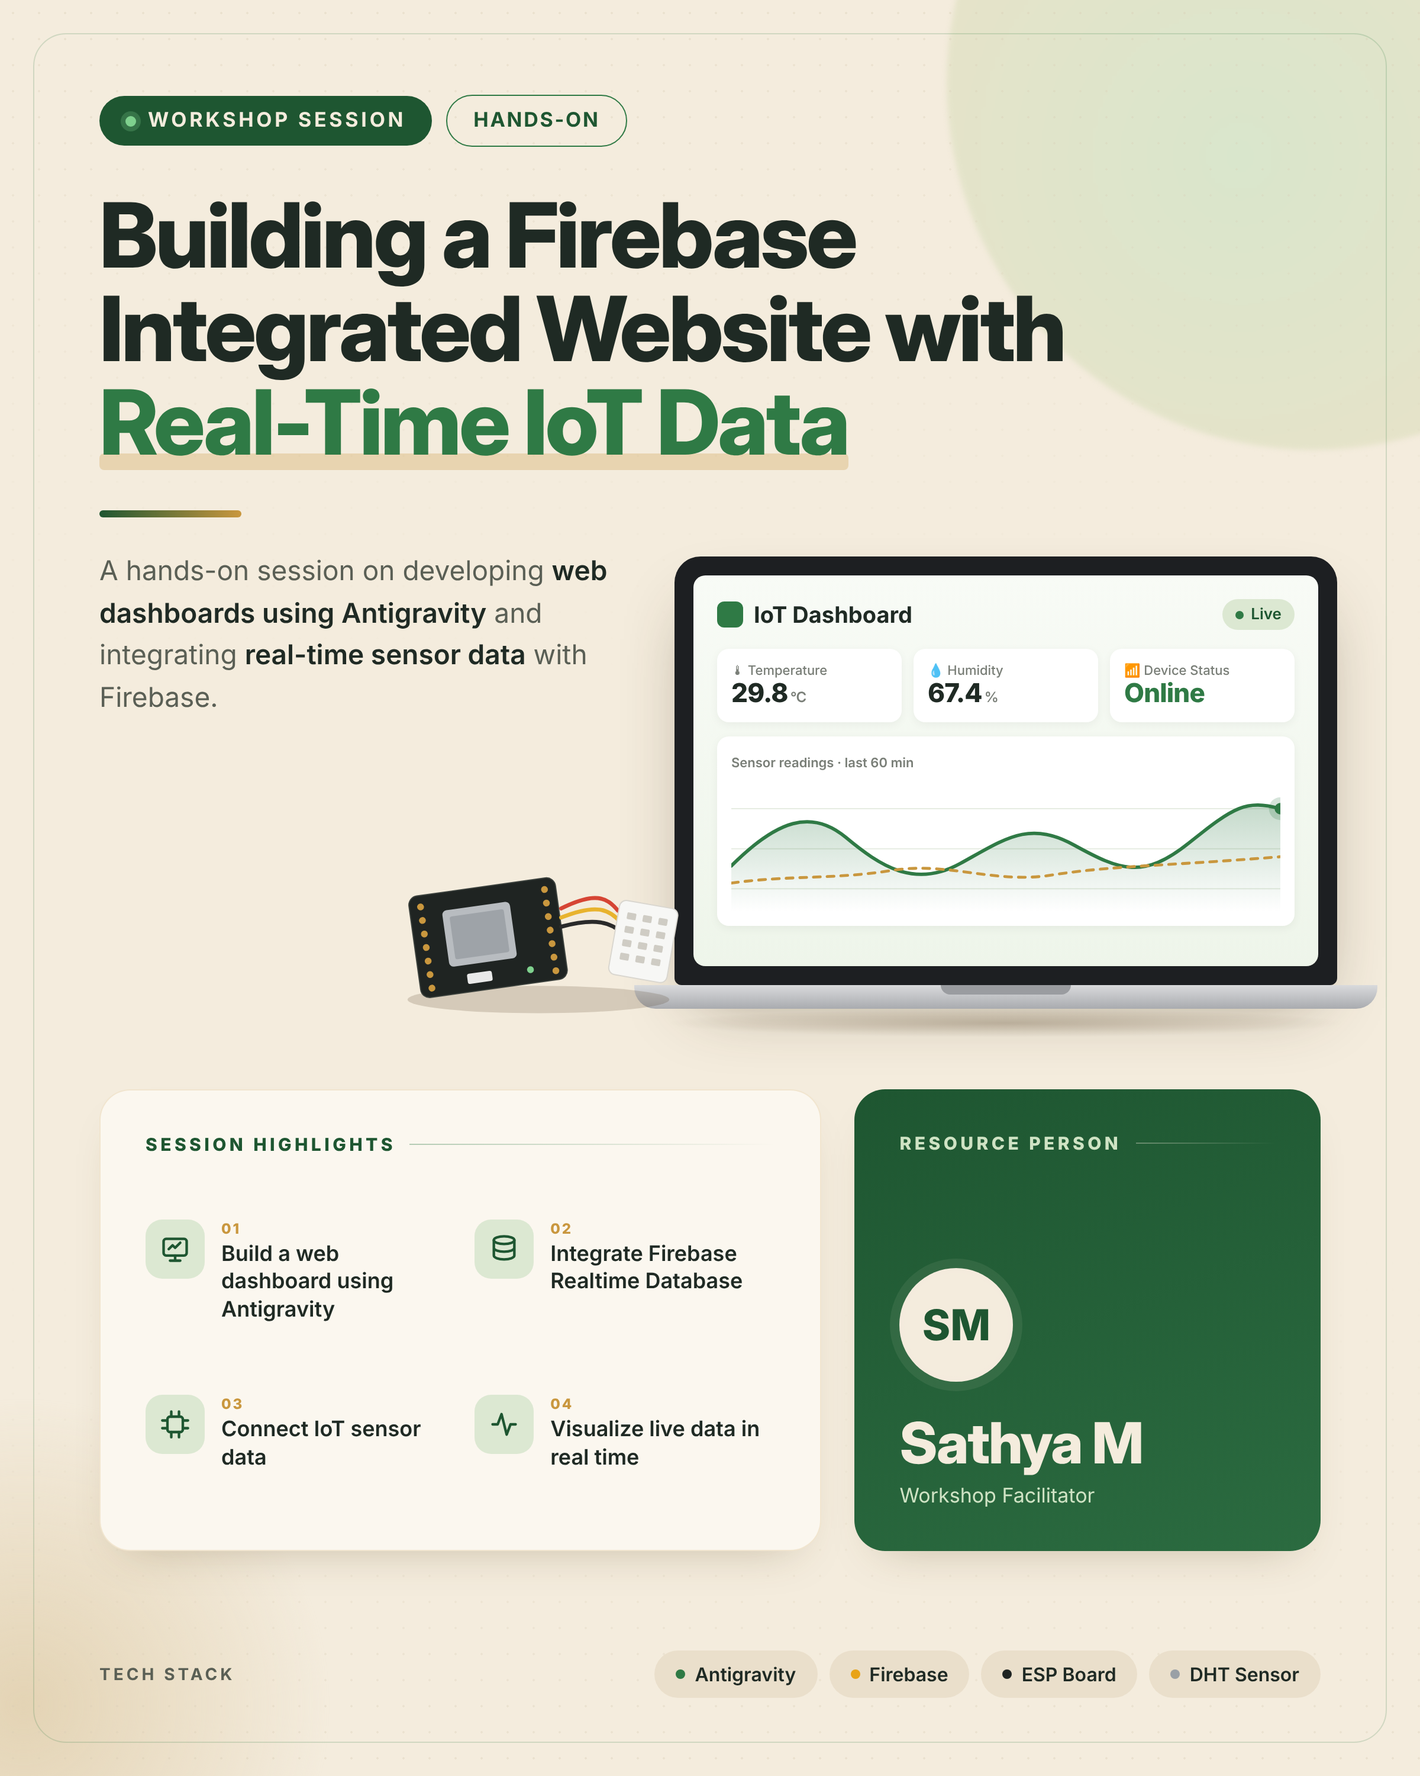
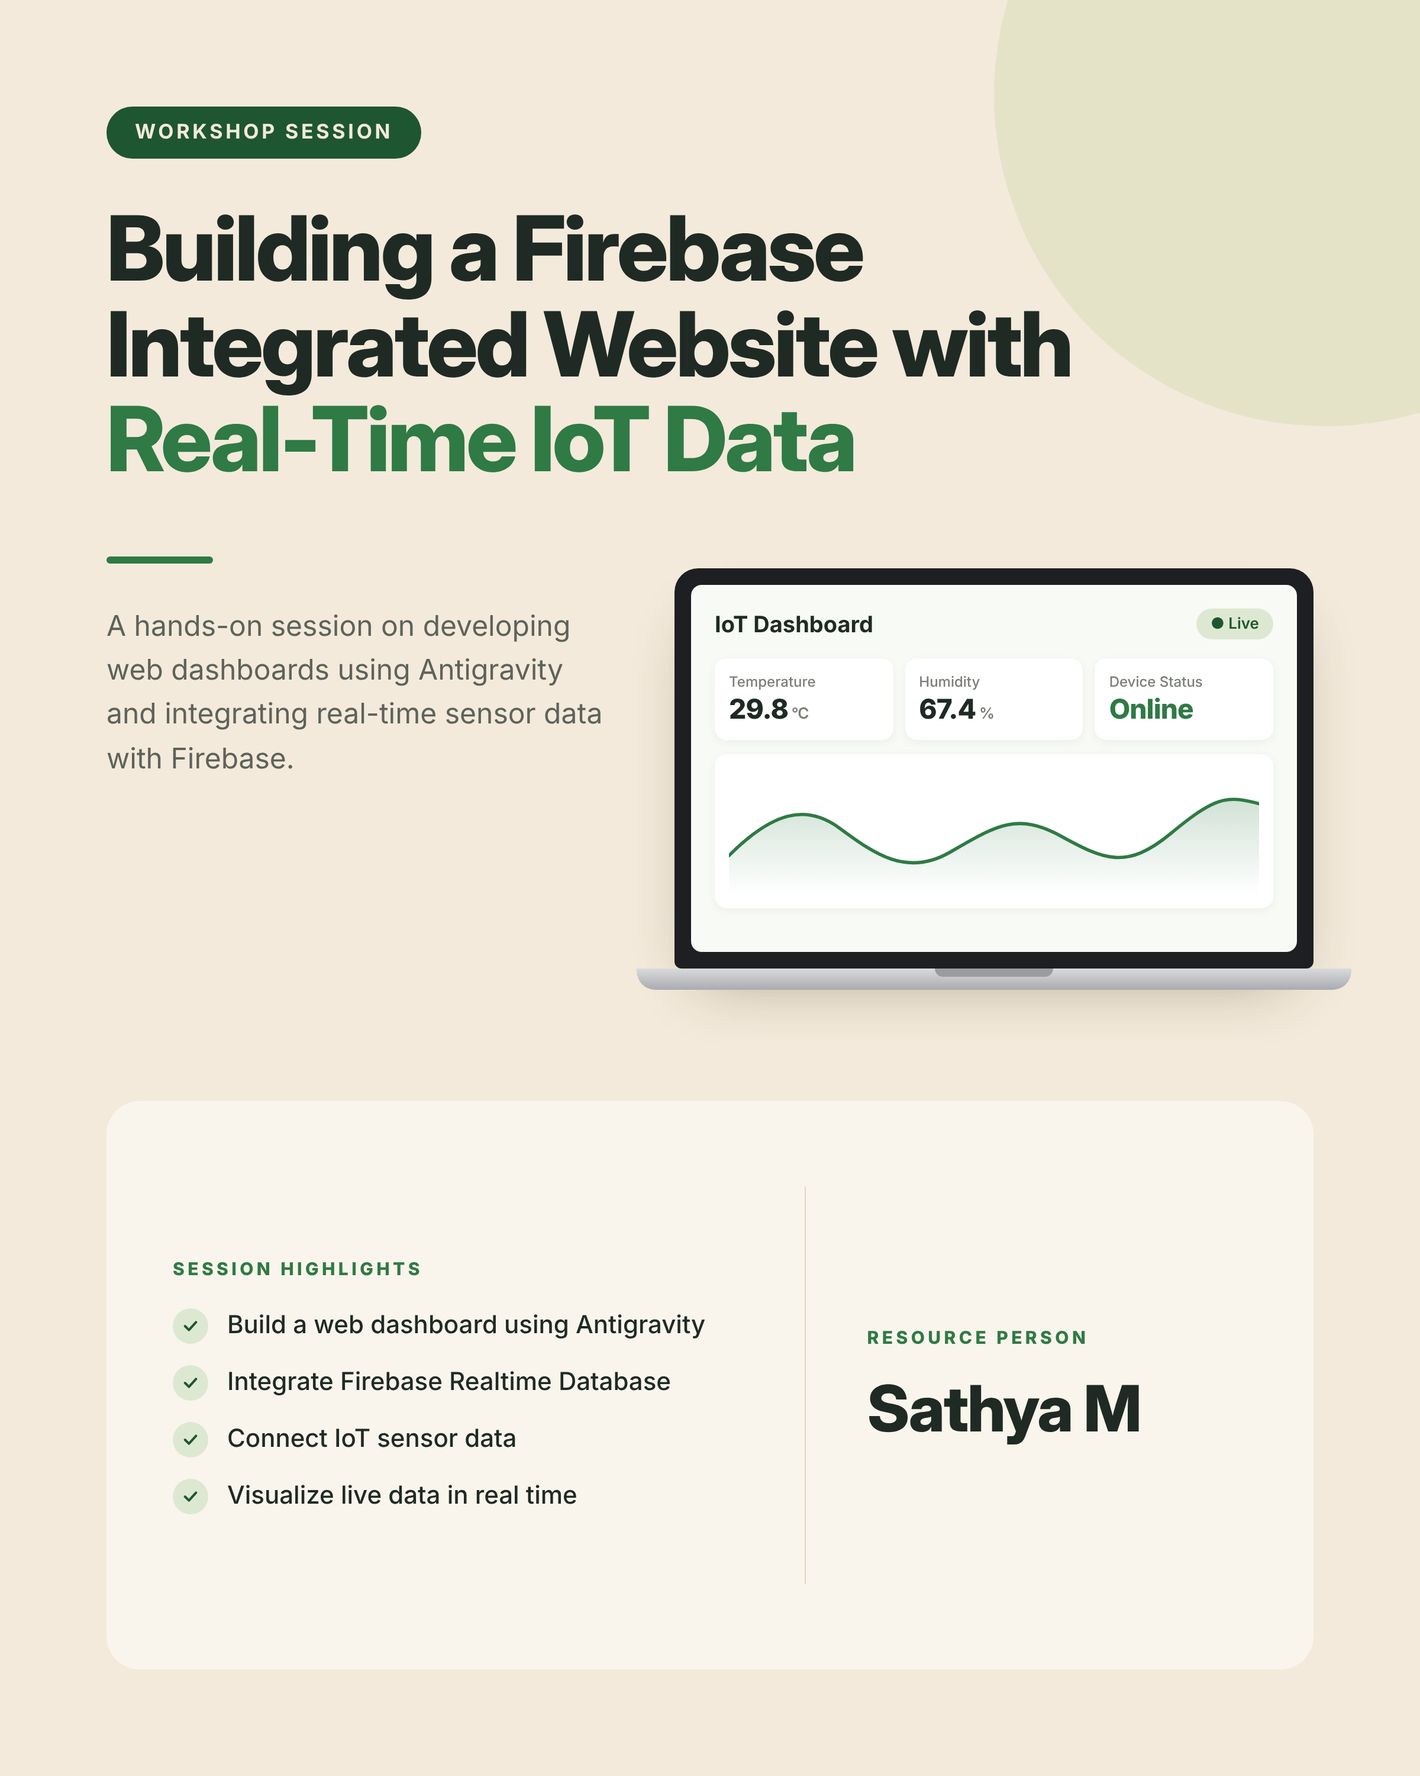
Simplify workshop poster design
Claude-Session: https://claude.ai/code/session_01UMwc75R27ws7W1o423wc6f

diff --git a/poster/poster.html b/poster/poster.html
@@ -4,202 +4,91 @@
 <meta charset="utf-8">
 <title>Workshop Poster</title>
 <style>
-  :root{
-    --beige:#F4ECDD; --beige-2:#EADFCB; --cream:#FBF7EF;
-    --ink:#1F2A24; --muted:#5A5F55;
-    --green:#2F7A45; --green-d:#1E5631; --green-l:#DCE8D2;
-    --gold:#C9973E;
-  }
+  :root{--beige:#F3EADB;--cream:#FAF5EC;--ink:#1F2A24;--muted:#5E625A;--green:#2F7A45;--green-d:#1E5631;--green-l:#DDE8D3}
   *{box-sizing:border-box;margin:0;padding:0}
   html,body{width:1200px;height:1500px;background:var(--beige)}
   body{font-family:"Inter",sans-serif;color:var(--ink);position:relative;overflow:hidden}
   .disp{font-family:"Inter Display","Inter",sans-serif}
+  .circle{position:absolute;width:560px;height:560px;border-radius:50%;right:-200px;top:-200px;background:#E4E3C8}
 
-  /* background decoration */
-  .blob{position:absolute;border-radius:50%;filter:blur(2px)}
-  .b1{width:620px;height:620px;right:-220px;top:-240px;background:radial-gradient(circle at 40% 60%,#D9E6CC 0%,#E6E3C9 55%,transparent 72%)}
-  .b2{width:520px;height:520px;left:-240px;bottom:-200px;background:radial-gradient(circle,#E3D3B4 0%,transparent 70%)}
-  .grain{position:absolute;inset:0;opacity:.35;
-    background-image:radial-gradient(#d8ccb4 1px,transparent 1px);background-size:22px 22px;
-    mask-image:linear-gradient(180deg,#000 0%,transparent 40%,transparent 70%,#000 100%)}
-  .frame{position:absolute;inset:28px;border:1.5px solid rgba(47,122,69,.18);border-radius:28px;pointer-events:none}
-
-  .wrap{position:relative;padding:80px 84px 0}
-
-  .tagrow{display:flex;gap:12px;align-items:center}
-  .pill{display:inline-flex;align-items:center;gap:10px;padding:11px 22px;border-radius:999px;
+  .pill{position:absolute;left:90px;top:90px;padding:12px 24px;border-radius:999px;background:var(--green-d);color:var(--beige);
     font-weight:700;font-size:17px;letter-spacing:.14em;text-transform:uppercase}
-  .pill.solid{background:var(--green-d);color:#F4ECDD}
-  .pill.ghost{border:1.5px solid var(--green);color:var(--green-d);letter-spacing:.08em}
-  .dot{width:9px;height:9px;border-radius:50%;background:#7FD18E;box-shadow:0 0 0 4px rgba(127,209,142,.25)}
 
-  h1{margin-top:36px;font-size:76px;line-height:1.04;font-weight:800;letter-spacing:-.028em;position:relative;z-index:1}
-  h1 .hl{color:var(--green);position:relative;white-space:nowrap}
-  h1 .hl::after{content:"";position:absolute;left:0;right:0;bottom:6px;height:14px;background:rgba(201,151,62,.28);z-index:-1;border-radius:4px}
-  .rule{width:120px;height:6px;border-radius:6px;margin:34px 0 28px;background:linear-gradient(90deg,var(--green-d),var(--gold))}
-  .lede{font-size:23px;line-height:1.55;color:var(--muted);width:440px}
-  .lede b{color:var(--ink);font-weight:600}
+  h1{position:absolute;left:90px;top:170px;font-size:76px;line-height:1.06;font-weight:800;letter-spacing:-.028em}
+  h1 span{color:var(--green)}
 
-  /* laptop */
-  .device{position:absolute;right:70px;top:470px;width:560px}
-  .screen{background:#1d1f22;border-radius:22px 22px 6px 6px;padding:16px;box-shadow:0 30px 60px -20px rgba(60,45,20,.45)}
-  .ui{background:linear-gradient(180deg,#F8FBF6,#EEF5EA);border-radius:10px;height:330px;padding:20px 20px}
+  .rule{position:absolute;left:90px;top:470px;width:90px;height:6px;border-radius:6px;background:var(--green)}
+  .lede{position:absolute;left:90px;top:510px;width:420px;font-size:24px;line-height:1.55;color:var(--muted)}
+
+  .device{position:absolute;right:90px;top:480px;width:540px}
+  .screen{background:#1d1f22;border-radius:20px 20px 6px 6px;padding:14px;box-shadow:0 30px 50px -24px rgba(60,45,20,.45)}
+  .ui{background:#F8FAF5;border-radius:9px;height:310px;padding:20px}
   .ui-top{display:flex;justify-content:space-between;align-items:center}
-  .ui-title{font-weight:700;font-size:19px;display:flex;align-items:center;gap:9px}
-  .ui-title i{width:22px;height:22px;border-radius:6px;background:var(--green);display:inline-block}
-  .live{font-size:13px;font-weight:600;color:var(--green-d);background:var(--green-l);padding:5px 11px;border-radius:999px;display:flex;align-items:center;gap:6px}
-  .live s{width:7px;height:7px;border-radius:50%;background:var(--green);text-decoration:none;display:inline-block}
+  .ui-title{font-weight:700;font-size:19px}
+  .live{font-size:13px;font-weight:600;color:var(--green-d);background:var(--green-l);padding:5px 12px;border-radius:999px}
   .stats{display:grid;grid-template-columns:repeat(3,1fr);gap:10px;margin-top:16px}
-  .stat{background:#fff;border-radius:10px;padding:11px 12px;box-shadow:0 2px 8px rgba(0,0,0,.05)}
-  .stat small{display:block;font-size:11px;color:#7a7f78;font-weight:500}
-  .stat strong{font-size:22px;font-weight:800;letter-spacing:-.02em}
-  .stat strong em{font-style:normal;font-size:12px;color:#7a7f78;font-weight:600;margin-left:2px}
+  .stat{background:#fff;border-radius:10px;padding:12px;box-shadow:0 2px 8px rgba(0,0,0,.05)}
+  .stat small{display:block;font-size:12px;color:#7a7f78;font-weight:500;margin-bottom:2px}
+  .stat strong{font-size:23px;font-weight:800;letter-spacing:-.02em}
+  .stat em{font-style:normal;font-size:13px;color:#7a7f78;font-weight:600}
   .stat .on{color:var(--green)}
-  .chart{margin-top:12px;background:#fff;border-radius:10px;padding:10px 12px 6px;box-shadow:0 2px 8px rgba(0,0,0,.05)}
-  .chart small{font-size:11px;color:#7a7f78;font-weight:600}
-  .base{height:20px;background:linear-gradient(180deg,#d9dadc,#a9abaf);border-radius:0 0 18px 18px;margin:0 -34px;position:relative}
-  .base::before{content:"";position:absolute;left:50%;top:0;transform:translateX(-50%);width:110px;height:8px;background:#9a9ca0;border-radius:0 0 8px 8px}
-  .shadow{height:24px;margin:0 -10px;background:radial-gradient(ellipse at center,rgba(70,50,20,.25),transparent 70%)}
-  .hw{position:absolute;left:330px;top:700px;width:250px;z-index:2}
+  .chart{margin-top:12px;background:#fff;border-radius:10px;padding:12px 12px 4px;box-shadow:0 2px 8px rgba(0,0,0,.05)}
+  .base{height:18px;background:linear-gradient(180deg,#d9dadc,#a9abaf);border-radius:0 0 16px 16px;margin:0 -32px;position:relative}
+  .base::before{content:"";position:absolute;left:50%;top:0;transform:translateX(-50%);width:100px;height:7px;background:#9a9ca0;border-radius:0 0 7px 7px}
 
-  /* bottom */
-  .bottom{position:absolute;left:84px;right:84px;top:920px;display:grid;grid-template-columns:1.55fr 1fr;gap:28px}
-  .card{min-height:390px;display:flex;flex-direction:column;background:var(--cream);border-radius:26px;padding:36px 38px;box-shadow:0 18px 40px -24px rgba(90,70,30,.35);border:1px solid rgba(201,151,62,.18)}
-  .card h3{font-size:15px;letter-spacing:.18em;text-transform:uppercase;color:var(--green-d);font-weight:800;margin-bottom:24px;display:flex;align-items:center;gap:12px}
-  .card h3::after{content:"";flex:1;height:1.5px;background:linear-gradient(90deg,rgba(47,122,69,.35),transparent)}
-  .items{flex:1;display:grid;grid-template-columns:1fr 1fr;gap:30px 24px;align-content:space-evenly}
-  .item{display:flex;gap:14px;align-items:flex-start}
-  .ic{flex:none;width:50px;height:50px;border-radius:14px;background:var(--green-l);display:grid;place-items:center;color:var(--green-d)}
-  .item b{display:block;font-size:12px;color:var(--gold);letter-spacing:.12em;font-weight:800;margin-bottom:3px}
-  .item p{font-size:18px;line-height:1.3;font-weight:600}
-
-  .rp{display:flex;flex-direction:column;justify-content:space-between;background:linear-gradient(160deg,var(--green-d),#2B6B40);color:#F4ECDD;border:none}
-  .rp h3{color:#CFE3C4}
-  .rp h3::after{background:linear-gradient(90deg,rgba(244,236,221,.35),transparent)}
-  .avatar{width:96px;height:96px;border-radius:50%;background:var(--beige);color:var(--green-d);display:grid;place-items:center;font-size:36px;font-weight:800;border:4px solid rgba(244,236,221,.35);box-shadow:0 0 0 8px rgba(244,236,221,.08)}
-  .rp .name{font-size:48px;font-weight:800;letter-spacing:-.02em;margin-top:22px}
-  .rp .role{font-size:17px;color:#CFE3C4;margin-top:6px}
-
-  .stack{position:absolute;left:84px;right:84px;bottom:66px;display:flex;align-items:center;justify-content:space-between}
-  .stack span.l{font-size:14px;font-weight:700;letter-spacing:.18em;text-transform:uppercase;color:var(--muted)}
-  .chips{display:flex;gap:10px}
-  .chip{padding:10px 18px;border-radius:999px;background:var(--beige-2);font-size:16px;font-weight:600;color:var(--ink);display:flex;align-items:center;gap:8px}
-  .chip i{width:8px;height:8px;border-radius:50%;display:inline-block}
+  .bottom{position:absolute;left:90px;right:90px;top:930px;bottom:90px;background:var(--cream);border-radius:28px;
+    display:grid;grid-template-columns:1.5fr 1px 1fr;align-items:center;padding:0 56px;gap:52px}
+  h3{font-size:15px;letter-spacing:.18em;text-transform:uppercase;color:var(--green);font-weight:800;margin-bottom:24px}
+  ul{list-style:none;display:grid;gap:18px}
+  li{display:flex;align-items:center;gap:16px;font-size:21px;font-weight:500}
+  li i{flex:none;width:30px;height:30px;border-radius:50%;background:var(--green-l);display:grid;place-items:center}
+  .divider{height:70%;background:#E2D6C2}
+  .name{font-size:54px;font-weight:800;letter-spacing:-.02em;line-height:1.05}
 </style>
 </head>
 <body>
-  <div class="blob b1"></div><div class="blob b2"></div><div class="grain"></div><div class="frame"></div>
+  <div class="circle"></div>
+  <div class="pill">Workshop Session</div>
 
-  <div class="wrap">
-    <div class="tagrow">
-      <span class="pill solid"><span class="dot"></span>Workshop Session</span>
-      <span class="pill ghost">Hands-on</span>
-    </div>
+  <h1 class="disp">Building a Firebase<br>Integrated Website with<br><span>Real-Time IoT Data</span></h1>
+  <div class="rule"></div>
+  <p class="lede">A hands-on session on developing web dashboards using Antigravity and integrating real-time sensor data with Firebase.</p>
 
-    <h1 class="disp">Building a Firebase<br>Integrated Website with<br><span class="hl">Real-Time IoT Data</span></h1>
-    <div class="rule"></div>
-    <p class="lede">A hands-on session on developing <b>web dashboards using Antigravity</b> and integrating <b>real-time sensor data</b> with Firebase.</p>
-  </div>
-
-  <!-- Laptop mockup -->
   <div class="device">
     <div class="screen">
       <div class="ui">
-        <div class="ui-top">
-          <div class="ui-title"><i></i>IoT Dashboard</div>
-          <div class="live"><s></s>Live</div>
-        </div>
+        <div class="ui-top"><div class="ui-title">IoT Dashboard</div><div class="live">● Live</div></div>
         <div class="stats">
-          <div class="stat"><small>🌡 Temperature</small><strong>29.8<em>°C</em></strong></div>
-          <div class="stat"><small>💧 Humidity</small><strong>67.4<em>%</em></strong></div>
-          <div class="stat"><small>📶 Device Status</small><strong class="on">Online</strong></div>
+          <div class="stat"><small>Temperature</small><strong>29.8<em> °C</em></strong></div>
+          <div class="stat"><small>Humidity</small><strong>67.4<em> %</em></strong></div>
+          <div class="stat"><small>Device Status</small><strong class="on">Online</strong></div>
         </div>
         <div class="chart">
-          <small>Sensor readings · last 60 min</small>
-          <svg viewBox="0 0 480 120" width="100%" height="120">
-            <defs><linearGradient id="g" x1="0" y1="0" x2="0" y2="1"><stop offset="0" stop-color="#2F7A45" stop-opacity=".28"/><stop offset="1" stop-color="#2F7A45" stop-opacity="0"/></linearGradient></defs>
-            <g stroke="#E6ECE2" stroke-width="1"><line x1="0" y1="30" x2="480" y2="30"/><line x1="0" y1="65" x2="480" y2="65"/><line x1="0" y1="100" x2="480" y2="100"/></g>
-            <path d="M0,80 C40,40 70,30 100,55 S160,100 200,78 S260,40 300,62 S360,92 400,60 S450,22 480,30 L480,120 L0,120Z" fill="url(#g)"/>
-            <path d="M0,80 C40,40 70,30 100,55 S160,100 200,78 S260,40 300,62 S360,92 400,60 S450,22 480,30" fill="none" stroke="#2F7A45" stroke-width="3" stroke-linecap="round"/>
-            <path d="M0,95 C50,88 90,92 140,84 S230,96 280,88 S380,80 480,72" fill="none" stroke="#C9973E" stroke-width="2.5" stroke-dasharray="6 6" stroke-linecap="round"/>
-            <circle cx="480" cy="30" r="5" fill="#2F7A45"/><circle cx="480" cy="30" r="10" fill="#2F7A45" opacity=".2"/>
+          <svg viewBox="0 0 480 110" width="100%" height="110">
+            <defs><linearGradient id="g" x1="0" y1="0" x2="0" y2="1"><stop offset="0" stop-color="#2F7A45" stop-opacity=".22"/><stop offset="1" stop-color="#2F7A45" stop-opacity="0"/></linearGradient></defs>
+            <path d="M0,75 C40,35 70,28 100,50 S160,95 200,72 S260,35 300,57 S360,88 400,55 S450,20 480,28 L480,110 L0,110Z" fill="url(#g)"/>
+            <path d="M0,75 C40,35 70,28 100,50 S160,95 200,72 S260,35 300,57 S360,88 400,55 S450,20 480,28" fill="none" stroke="#2F7A45" stroke-width="3" stroke-linecap="round"/>
           </svg>
         </div>
       </div>
     </div>
     <div class="base"></div>
-    <div class="shadow"></div>
   </div>
-
-  <!-- ESP board + DHT sensor illustration -->
-  <svg class="hw" viewBox="0 0 260 170">
-    <ellipse cx="130" cy="150" rx="115" ry="12" fill="rgba(70,50,20,.18)"/>
-    <g transform="rotate(-8 90 90)">
-      <rect x="20" y="50" width="130" height="90" rx="8" fill="#1F2422"/>
-      <rect x="20" y="50" width="130" height="90" rx="8" fill="none" stroke="#3a403c"/>
-      <rect x="48" y="66" width="60" height="50" rx="4" fill="#B8BCC0"/>
-      <rect x="54" y="72" width="48" height="38" rx="2" fill="#9EA3A8"/>
-      <g fill="#C9973E">
-        <circle cx="30" cy="60" r="3"/><circle cx="30" cy="72" r="3"/><circle cx="30" cy="84" r="3"/><circle cx="30" cy="96" r="3"/><circle cx="30" cy="108" r="3"/><circle cx="30" cy="120" r="3"/><circle cx="30" cy="132" r="3"/>
-        <circle cx="140" cy="60" r="3"/><circle cx="140" cy="72" r="3"/><circle cx="140" cy="84" r="3"/><circle cx="140" cy="96" r="3"/><circle cx="140" cy="108" r="3"/><circle cx="140" cy="120" r="3"/><circle cx="140" cy="132" r="3"/>
-      </g>
-      <rect x="62" y="124" width="22" height="9" rx="2" fill="#E9E9E9"/>
-      <circle cx="118" cy="128" r="3" fill="#7FD18E"/>
-    </g>
-    <path d="M150,70 C180,55 190,60 200,72" stroke="#D64534" stroke-width="3.5" fill="none" stroke-linecap="round"/>
-    <path d="M150,78 C180,66 192,70 202,82" stroke="#E8B32E" stroke-width="3.5" fill="none" stroke-linecap="round"/>
-    <path d="M150,86 C180,78 194,82 204,92" stroke="#2A2A2A" stroke-width="3.5" fill="none" stroke-linecap="round"/>
-    <g transform="rotate(10 222 100)">
-      <rect x="196" y="66" width="52" height="66" rx="6" fill="#F7F7F5" stroke="#d9d6cf"/>
-      <g fill="#cfccc4">
-        <rect x="204" y="76" width="8" height="6" rx="1"/><rect x="218" y="76" width="8" height="6" rx="1"/><rect x="232" y="76" width="8" height="6" rx="1"/>
-        <rect x="204" y="88" width="8" height="6" rx="1"/><rect x="218" y="88" width="8" height="6" rx="1"/><rect x="232" y="88" width="8" height="6" rx="1"/>
-        <rect x="204" y="100" width="8" height="6" rx="1"/><rect x="218" y="100" width="8" height="6" rx="1"/><rect x="232" y="100" width="8" height="6" rx="1"/>
-        <rect x="204" y="112" width="8" height="6" rx="1"/><rect x="218" y="112" width="8" height="6" rx="1"/><rect x="232" y="112" width="8" height="6" rx="1"/>
-      </g>
-    </g>
-  </svg>
 
   <div class="bottom">
-    <div class="card">
+    <div>
       <h3>Session Highlights</h3>
-      <div class="items">
-        <div class="item">
-          <div class="ic"><svg width="26" height="26" viewBox="0 0 24 24" fill="none" stroke="currentColor" stroke-width="2" stroke-linecap="round" stroke-linejoin="round"><rect x="3" y="4" width="18" height="13" rx="2"/><path d="M8 21h8M12 17v4M7 12l3-3 2 2 4-4"/></svg></div>
-          <div><b>01</b><p>Build a web dashboard using Antigravity</p></div>
-        </div>
-        <div class="item">
-          <div class="ic"><svg width="26" height="26" viewBox="0 0 24 24" fill="none" stroke="currentColor" stroke-width="2" stroke-linecap="round" stroke-linejoin="round"><ellipse cx="12" cy="5" rx="8" ry="3"/><path d="M4 5v6c0 1.7 3.6 3 8 3s8-1.3 8-3V5M4 11v6c0 1.7 3.6 3 8 3s8-1.3 8-3v-6"/></svg></div>
-          <div><b>02</b><p>Integrate Firebase Realtime Database</p></div>
-        </div>
-        <div class="item">
-          <div class="ic"><svg width="26" height="26" viewBox="0 0 24 24" fill="none" stroke="currentColor" stroke-width="2" stroke-linecap="round" stroke-linejoin="round"><rect x="6" y="6" width="12" height="12" rx="2"/><path d="M9 2v4M15 2v4M9 18v4M15 18v4M2 9h4M2 15h4M18 9h4M18 15h4"/></svg></div>
-          <div><b>03</b><p>Connect IoT sensor data</p></div>
-        </div>
-        <div class="item">
-          <div class="ic"><svg width="26" height="26" viewBox="0 0 24 24" fill="none" stroke="currentColor" stroke-width="2" stroke-linecap="round" stroke-linejoin="round"><path d="M3 12h4l3-8 4 16 3-8h4"/></svg></div>
-          <div><b>04</b><p>Visualize live data in real time</p></div>
-        </div>
-      </div>
+      <ul>
+        <li><i><svg width="16" height="16" viewBox="0 0 24 24" fill="none" stroke="#1E5631" stroke-width="3" stroke-linecap="round" stroke-linejoin="round"><path d="M5 12l5 5 9-10"/></svg></i>Build a web dashboard using Antigravity</li>
+        <li><i><svg width="16" height="16" viewBox="0 0 24 24" fill="none" stroke="#1E5631" stroke-width="3" stroke-linecap="round" stroke-linejoin="round"><path d="M5 12l5 5 9-10"/></svg></i>Integrate Firebase Realtime Database</li>
+        <li><i><svg width="16" height="16" viewBox="0 0 24 24" fill="none" stroke="#1E5631" stroke-width="3" stroke-linecap="round" stroke-linejoin="round"><path d="M5 12l5 5 9-10"/></svg></i>Connect IoT sensor data</li>
+        <li><i><svg width="16" height="16" viewBox="0 0 24 24" fill="none" stroke="#1E5631" stroke-width="3" stroke-linecap="round" stroke-linejoin="round"><path d="M5 12l5 5 9-10"/></svg></i>Visualize live data in real time</li>
+      </ul>
     </div>
-
-    <div class="card rp">
+    <div class="divider"></div>
+    <div>
       <h3>Resource Person</h3>
-      <div>
-        <div class="avatar">SM</div>
-        <div class="name disp">Sathya M</div>
-        <div class="role">Workshop Facilitator</div>
-      </div>
-    </div>
-  </div>
-
-  <div class="stack">
-    <span class="l">Tech Stack</span>
-    <div class="chips">
-      <span class="chip"><i style="background:#2F7A45"></i>Antigravity</span>
-      <span class="chip"><i style="background:#E8A317"></i>Firebase</span>
-      <span class="chip"><i style="background:#1F2422"></i>ESP Board</span>
-      <span class="chip"><i style="background:#9AA0A6"></i>DHT Sensor</span>
+      <div class="name disp">Sathya M</div>
     </div>
   </div>
 </body>
